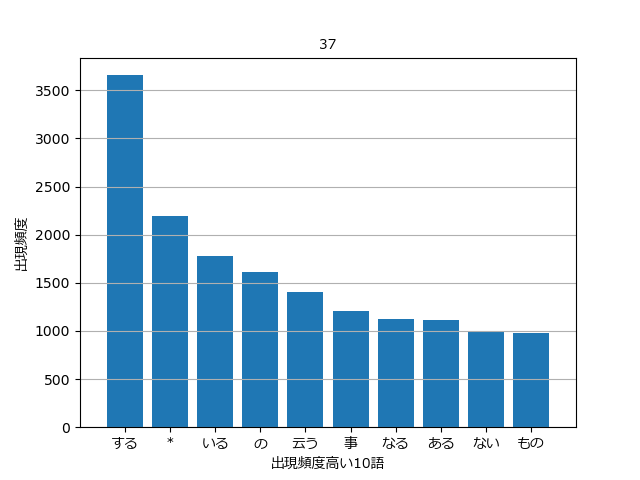
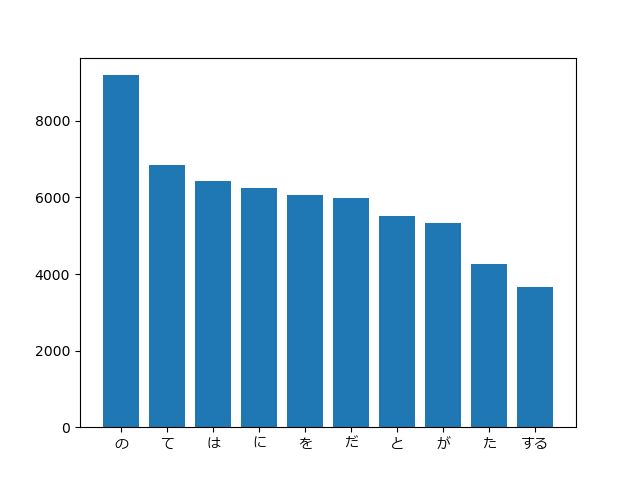
get_morohen_dict_listを外部からimport

diff --git a/chapter4/39.py b/chapter4/39.py
@@ -1,42 +1,7 @@
 from collections import defaultdict
 import matplotlib.pyplot as plt
 from matplotlib.font_manager import FontProperties
-
-def get_morpheme_dict_lists():
-    """
-    一文の一語づつの形態素が辞書で格納されて
-    一文にlistで入っている
-    上の一文の形態素の情報を一要素としたlistを返す
-    """
-
-    res = []
-
-    with open("neko.txt.mecab", encoding="utf-8") as target:
-        
-        # 改行コードごとでsplit
-        lines = target.read().split("\n")
-        
-        # 一文を格納するlist
-        tmp = []
-
-        for line in lines:
-
-            # EOSか最終行なら一文をresに追加
-            if line == "EOS" or line == "":
-                if tmp: res.append(tmp)
-                tmp = []
-            else:
-                word, feature_str = line.split("\t")
-                features = feature_str.split(",")
-                tmp.append(
-                    {
-                       "surface": word,
-                       "base": features[6],
-                       "pos": features[0],
-                       "pos1": features[1]
-                    }
-                )
-    return res
+from morpheme import get_morpheme_dict_lists
 
 def _39():
 
@@ -45,17 +10,13 @@ def _39():
     words = defaultdict(int)
     for line in morpheme_dict_lists:
         for word in line:
-            if word["pos"] not in  ("記号","助動詞","助詞"):
+            if word["pos"] != "記号":
                 words[word["base"]] += 1
     
 
     # baseがうまく認識しないから*になってるものが多いよ...
     items = sorted(words.items(), key=lambda x: -x[1])
     counts = list(map(lambda x: x[1], items))
-
-    # グラフで使うフォント情報(デフォルトのままでは日本語が表示できない)
-    fp = FontProperties(fname="C:\\Windows\\Fonts\\meiryo.ttc")
-
 
     # 散布図のデータ指定
     plt.scatter(range(1, len(counts) + 1),counts)
@@ -67,14 +28,6 @@ def _39():
     # 対数グラフに
     plt.xscale('log')
     plt.yscale('log')
-
-    # グラフのタイトル、ラベル指定
-    plt.title("39. Zipfの法則", fontproperties=fp)
-    plt.xlabel('出現度順位', fontproperties=fp)
-    plt.ylabel('出現頻度', fontproperties=fp)
-
-    # グリッドを表示
-    plt.grid(axis='both')
 
     # 表示
     plt.show()

diff --git a/chapter4/38.py b/chapter4/38.py
@@ -1,42 +1,7 @@
 from collections import defaultdict
 import matplotlib.pyplot as plt
 from matplotlib.font_manager import FontProperties
-
-def get_morpheme_dict_lists():
-    """
-    一文の一語づつの形態素が辞書で格納されて
-    一文にlistで入っている
-    上の一文の形態素の情報を一要素としたlistを返す
-    """
-
-    res = []
-
-    with open("neko.txt.mecab", encoding="utf-8") as target:
-        
-        # 改行コードごとでsplit
-        lines = target.read().split("\n")
-        
-        # 一文を格納するlist
-        tmp = []
-
-        for line in lines:
-
-            # EOSか最終行なら一文をresに追加
-            if line == "EOS" or line == "":
-                if tmp: res.append(tmp)
-                tmp = []
-            else:
-                word, feature_str = line.split("\t")
-                features = feature_str.split(",")
-                tmp.append(
-                    {
-                       "surface": word,
-                       "base": features[6],
-                       "pos": features[0],
-                       "pos1": features[1]
-                    }
-                )
-    return res
+from morpheme import get_morpheme_dict_lists
 
 def _38():
 
@@ -45,7 +10,7 @@ def _38():
     words = defaultdict(int)
     for line in morpheme_dict_lists:
         for word in line:
-            if word["pos"] not in  ("記号","助動詞","助詞"):
+            if word["pos"] != "記号":
                 words[word["base"]] += 1
     
 
@@ -53,25 +18,15 @@ def _38():
     items = sorted(words.items(), key=lambda x: -x[1])
     counts = list(map(lambda x: x[1], items))
 
-    # グラフで使うフォント情報(デフォルトのままでは日本語が表示できない)
-    fp = FontProperties(fname="C:\\Windows\\Fonts\\meiryo.ttc")
-
     # ヒストグラムのデータ指定
     plt.hist(counts,bins=20,range=(1, 20))		
 
     # x軸の値の範囲の調整
     plt.xlim(xmin=1, xmax=20)
 
-    # グラフのタイトル、ラベル指定
-    plt.title("38. ヒストグラム", fontproperties=fp)
-    plt.xlabel('出現頻度', fontproperties=fp)
-    plt.ylabel('単語の種類数', fontproperties=fp)
-
-    # グリッドを表示
-    plt.grid(axis='y')
-
     # 表示
     plt.show()
+8
 
 if __name__ == "__main__":
     _38()

diff --git a/chapter4/37.py b/chapter4/37.py
@@ -1,42 +1,7 @@
 from collections import defaultdict
 import matplotlib.pyplot as plt
 from matplotlib.font_manager import FontProperties
-
-def get_morpheme_dict_lists():
-    """
-    一文の一語づつの形態素が辞書で格納されて
-    一文にlistで入っている
-    上の一文の形態素の情報を一要素としたlistを返す
-    """
-
-    res = []
-
-    with open("neko.txt.mecab", encoding="utf-8") as target:
-        
-        # 改行コードごとでsplit
-        lines = target.read().split("\n")
-        
-        # 一文を格納するlist
-        tmp = []
-
-        for line in lines:
-
-            # EOSか最終行なら一文をresに追加
-            if line == "EOS" or line == "":
-                if tmp: res.append(tmp)
-                tmp = []
-            else:
-                word, feature_str = line.split("\t")
-                features = feature_str.split(",")
-                tmp.append(
-                    {
-                       "surface": word,
-                       "base": features[6],
-                       "pos": features[0],
-                       "pos1": features[1]
-                    }
-                )
-    return res
+from morpheme import get_morpheme_dict_lists
 
 def _37():
 
@@ -45,7 +10,7 @@ def _37():
     words = defaultdict(int)
     for line in morpheme_dict_lists:
         for word in line:
-            if word["pos"] not in  ("記号","助動詞","助詞"):
+            if word["pos"] not in  "記号":
                 words[word["base"]] += 1
     
 
@@ -66,20 +31,10 @@ def _37():
     fp = FontProperties(fname="C:\\Windows\\Fonts\\meiryo.ttc")
 
     # 棒グラフのデータ指定
-    plt.bar(range(0, size),counts,align='center')
+    plt.bar(range(0, size),counts)
 
     # x軸のラベルの指定
     plt.xticks(range(0, size),words,fontproperties=fp)
-
-
-    # グラフのタイトル、ラベル指定
-    plt.title('37',fontproperties=fp)
-
-    plt.xlabel('出現頻度高い10語',fontproperties=fp)
-    plt.ylabel('出現頻度',fontproperties=fp)
-
-    # グリッドを表示
-    plt.grid(axis='y')
 
     # 表示
     plt.show()

diff --git a/chapter4/36.py b/chapter4/36.py
@@ -1,40 +1,5 @@
 from collections import defaultdict
-
-def get_morpheme_dict_lists():
-    """
-    一文の一語づつの形態素が辞書で格納されて
-    一文にlistで入っている
-    上の一文の形態素の情報を一要素としたlistを返す
-    """
-
-    res = []
-
-    with open("neko.txt.mecab", encoding="utf-8") as target:
-        
-        # 改行コードごとでsplit
-        lines = target.read().split("\n")
-        
-        # 一文を格納するlist
-        tmp = []
-
-        for line in lines:
-
-            # EOSか最終行なら一文をresに追加
-            if line == "EOS" or line == "":
-                if tmp: res.append(tmp)
-                tmp = []
-            else:
-                word, feature_str = line.split("\t")
-                features = feature_str.split(",")
-                tmp.append(
-                    {
-                       "surface": word,
-                       "base": features[6],
-                       "pos": features[0],
-                       "pos1": features[1]
-                    }
-                )
-    return res
+from morpheme import get_morpheme_dict_lists
 
 def _36():
 

diff --git a/chapter4/morpheme.py b/chapter4/morpheme.py
@@ -1,0 +1,35 @@
+def get_morpheme_dict_lists():
+    """
+    一文の一語づつの形態素が辞書で格納されて
+    一文にlistで入っている
+    上の一文の形態素の情報を一要素としたlistを返す
+    """
+
+    res = []
+
+    with open("neko.txt.mecab", encoding="utf-8") as target:
+        
+        # 改行コードごとでsplit
+        lines = target.read().split("\n")
+        
+        # 一文を格納するlist
+        tmp = []
+
+        for line in lines:
+
+            # EOSか最終行なら一文をresに追加
+            if line == "EOS" or line == "":
+                if tmp: res.append(tmp)
+                tmp = []
+            else:
+                word, feature_str = line.split("\t")
+                features = feature_str.split(",")
+                tmp.append(
+                    {
+                       "surface": word,
+                       "base": features[6],
+                       "pos": features[0],
+                       "pos1": features[1]
+                    }
+                )
+    return res
